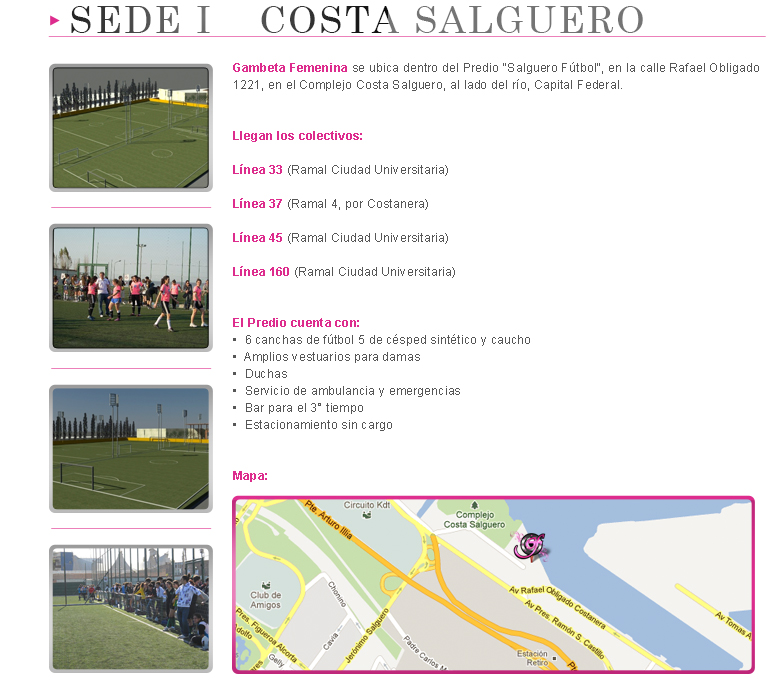
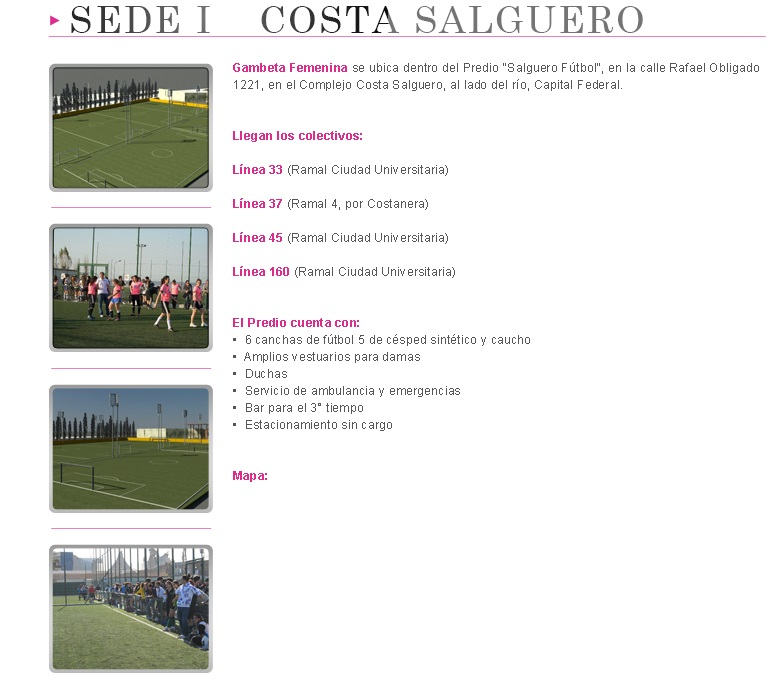
arreglo de imagen de sedes. arreglo de posicion de mapa de google en sedes.

diff --git a/sedes.php b/sedes.php
@@ -254,13 +254,13 @@ print_r($grises);*/
 			<div id="imagen" style="float:left; vertical-align:top">
 	          	  <div style="float:left; margin-left:48px; height:750px">
 					  <img src="img/sedes/sedes.jpg" />
-					  <div style="position:relative; top:-195px; left:230px; border: 3px solid #DD2C8D; border-radius:4px; width:530px">
+					  <div style="position:relative; top:-195px; left:115px; border: 3px solid #DD2C8D; border-radius:4px; width:530px">
 							<iframe width="530" height="180" frameborder="0" scrolling="no" marginheight="0" marginwidth="0" src="http://maps.google.com/maps?f=q&amp;source=s_q&amp;hl=es&amp;q=Acceso+A+Rafael+Obligado,+Recoleta,+Buenos+Aires,+Ciudad+Aut%C3%B3noma+de+Buenos+Aires,+Argentina&amp;aq=&amp;sll=-34.572592,-58.314056&amp;sspn=0.114067,0.264187&amp;ie=UTF8&amp;geocode=FVCA8P0dNueE_A&amp;split=0&amp;hq=&amp;hnear=Acceso+A+Rafael+Obligado,+Recoleta,+Buenos+Aires,+Argentina&amp;t=m&amp;ll=-34.568634,-58.394995&amp;spn=0.012722,0.04549&amp;z=14&amp;iwloc=&amp;output=embed"></iframe>
 					</div>
 		        </div> 
 	          	  <div style="float:left; top:-100px; margin-left:48px">
 					  <img src="img/sedes/sedes1.jpg" />
-					  <div style="position:relative; top:-195px; left:230px; border: 3px solid #DD2C8D; border-radius:4px; width:530px">
+					  <div style="position:relative; top:-195px; left:115px; border: 3px solid #DD2C8D; border-radius:4px; width:530px">
 							<iframe width="530" height="180" frameborder="0" scrolling="no" marginheight="0" marginwidth="0" src="http://maps.google.com/maps?f=q&amp;source=s_q&amp;hl=es&amp;q=Tte.+General+Juan+Domingo+Perón+3355,+Almagro,+Buenos+Aires,+Argentina&amp;aq=&amp;sll=-34.6073239,-58.4139393&amp;sspn=0.114067,0.264187&amp;ie=UTF8&amp;geocode=FVCA8P0dNueE_A&amp;split=0&amp;hq=&amp;hnear=Tte.+General+Juan+Domingo+Perón+3355,+Almagro,+Buenos+Aires,+Argentina&amp;t=m&amp;ll=-34.6073239,-58.4139393&amp;spn=0.012722,0.04549&amp;z=14&amp;iwloc=&amp;output=embed"></iframe>
 					  </div>
 		        </div>                 
